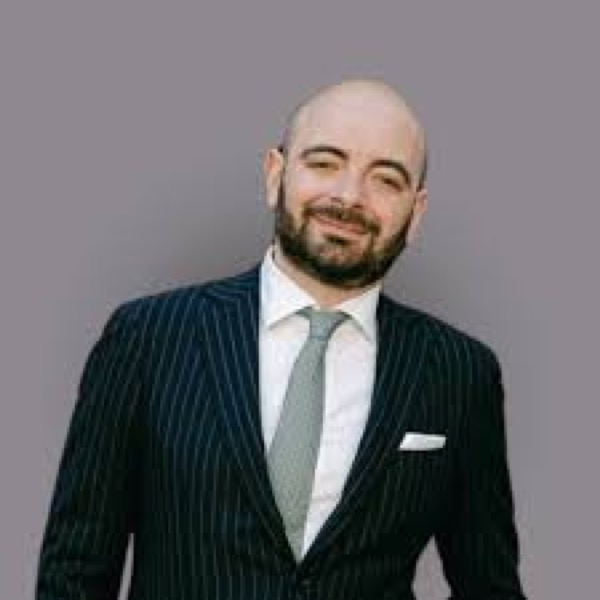
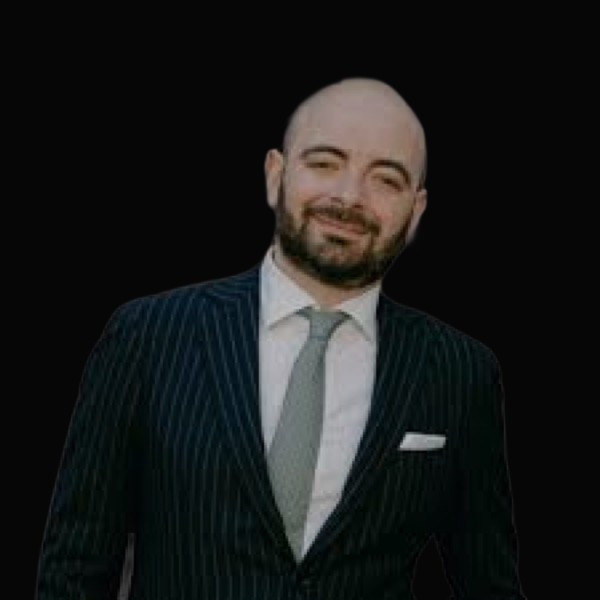
feat: unify all team photos with black background and vignette (matches giordano reference)

diff --git a/index.html b/index.html
@@ -37,13 +37,73 @@
   <header class="hero">
     <div class="hero__bg"></div>
     <canvas id="heroCanvas"></canvas>
-    <div class="hero__content">
-      <p class="hero__eyebrow">Founded 2018 &middot; London &middot; Luxembourg &middot; Milan</p>
-      <h1 class="hero__title">We structure <span class="gold">alternative investments</span><br>for those who build wealth differently.</h1>
-      <p class="hero__sub">Alternative fund structuring, securitization vehicles, and AI-driven wealth management. Regulated. Independent. Luxembourg-domiciled.</p>
-      <div class="hero__actions">
-        <a href="#services" class="btn btn--primary">Our Services</a>
-        <a href="#contact" class="btn btn--outline">Schedule a Call</a>
+    <div class="hero__content hero__content--split">
+      <div class="hero__text">
+        <p class="hero__eyebrow">Founded 2018 &middot; London &middot; Luxembourg &middot; Milan</p>
+        <h1 class="hero__title">Your wealth.<br><span class="gold">Structured</span> for what&rsquo;s next.</h1>
+        <p class="hero__sub">We build and manage alternative investment funds, structured products, and AI-driven portfolios from Luxembourg. Independent. Regulated. Aligned with your interests.</p>
+        <div class="hero__actions">
+          <a href="#services" class="btn btn--primary">Explore Our Services</a>
+          <a href="#contact" class="btn btn--outline">Schedule a Consultation</a>
+        </div>
+      </div>
+      <div class="hero__visual" aria-hidden="true">
+        <svg class="hero__network" viewBox="0 0 400 480" xmlns="http://www.w3.org/2000/svg">
+          <defs>
+            <radialGradient id="nodeGlow" cx="50%" cy="50%" r="50%">
+              <stop offset="0%" stop-color="#e0c874" stop-opacity="1"/>
+              <stop offset="60%" stop-color="#c9a84c" stop-opacity="0.5"/>
+              <stop offset="100%" stop-color="#c9a84c" stop-opacity="0"/>
+            </radialGradient>
+            <linearGradient id="lineGradient" x1="0%" y1="0%" x2="100%" y2="0%">
+              <stop offset="0%" stop-color="#c9a84c" stop-opacity="0.1"/>
+              <stop offset="50%" stop-color="#c9a84c" stop-opacity="0.6"/>
+              <stop offset="100%" stop-color="#c9a84c" stop-opacity="0.1"/>
+            </linearGradient>
+          </defs>
+          <!-- Connection lines -->
+          <g class="hero__network-lines" stroke="url(#lineGradient)" stroke-width="1" fill="none">
+            <line x1="200" y1="60" x2="80" y2="180"/>
+            <line x1="200" y1="60" x2="320" y2="180"/>
+            <line x1="200" y1="60" x2="200" y2="240"/>
+            <line x1="80" y1="180" x2="200" y2="240"/>
+            <line x1="320" y1="180" x2="200" y2="240"/>
+            <line x1="80" y1="180" x2="60" y2="360"/>
+            <line x1="320" y1="180" x2="340" y2="360"/>
+            <line x1="200" y1="240" x2="60" y2="360"/>
+            <line x1="200" y1="240" x2="340" y2="360"/>
+            <line x1="200" y1="240" x2="200" y2="420"/>
+            <line x1="60" y1="360" x2="200" y2="420"/>
+            <line x1="340" y1="360" x2="200" y2="420"/>
+          </g>
+          <!-- Nodes (glow + ring) -->
+          <g class="hero__network-nodes">
+            <!-- top hub -->
+            <circle cx="200" cy="60" r="28" fill="url(#nodeGlow)"/>
+            <circle cx="200" cy="60" r="8" fill="#e0c874"/>
+            <circle cx="200" cy="60" r="14" fill="none" stroke="#c9a84c" stroke-width="1" opacity="0.5"/>
+            <!-- mid-left -->
+            <circle cx="80" cy="180" r="20" fill="url(#nodeGlow)"/>
+            <circle cx="80" cy="180" r="5" fill="#c9a84c"/>
+            <!-- mid-right -->
+            <circle cx="320" cy="180" r="20" fill="url(#nodeGlow)"/>
+            <circle cx="320" cy="180" r="5" fill="#c9a84c"/>
+            <!-- center -->
+            <circle cx="200" cy="240" r="32" fill="url(#nodeGlow)"/>
+            <circle cx="200" cy="240" r="10" fill="#e0c874"/>
+            <circle cx="200" cy="240" r="18" fill="none" stroke="#c9a84c" stroke-width="1" opacity="0.6"/>
+            <!-- bottom-left -->
+            <circle cx="60" cy="360" r="18" fill="url(#nodeGlow)"/>
+            <circle cx="60" cy="360" r="4" fill="#c9a84c"/>
+            <!-- bottom-right -->
+            <circle cx="340" cy="360" r="18" fill="url(#nodeGlow)"/>
+            <circle cx="340" cy="360" r="4" fill="#c9a84c"/>
+            <!-- bottom hub -->
+            <circle cx="200" cy="420" r="24" fill="url(#nodeGlow)"/>
+            <circle cx="200" cy="420" r="7" fill="#e0c874"/>
+            <circle cx="200" cy="420" r="13" fill="none" stroke="#c9a84c" stroke-width="1" opacity="0.4"/>
+          </g>
+        </svg>
       </div>
       <div class="hero__stats">
         <div class="hero__stat">

diff --git a/style.css b/style.css
@@ -281,6 +281,70 @@ body {
   padding: 140px 24px 80px;
 }
 
+.hero__content--split {
+  display: grid;
+  grid-template-columns: minmax(0, 1.2fr) minmax(0, 1fr);
+  gap: 64px;
+  align-items: center;
+}
+
+.hero__text {
+  min-width: 0;
+}
+
+.hero__content--split .hero__stats {
+  grid-column: 1 / -1;
+  margin-top: 32px;
+}
+
+.hero__visual {
+  display: flex;
+  align-items: center;
+  justify-content: center;
+  position: relative;
+  opacity: 0;
+  animation: heroFadeUp 1.2s var(--ease-out-expo) 0.6s forwards;
+}
+
+.hero__network {
+  width: 100%;
+  max-width: 440px;
+  height: auto;
+  filter: drop-shadow(0 0 40px rgba(201, 168, 76, 0.15));
+}
+
+.hero__network-lines line {
+  stroke-dasharray: 4 6;
+  animation: networkPulse 6s linear infinite;
+}
+
+.hero__network-nodes circle {
+  transform-origin: center;
+  transform-box: fill-box;
+}
+
+.hero__network-nodes > circle:nth-child(3n+1) {
+  animation: nodeBreath 4s ease-in-out infinite;
+}
+
+.hero__network-nodes > circle:nth-child(3n+2) {
+  animation: nodeBreath 5s ease-in-out infinite 0.8s;
+}
+
+.hero__network-nodes > circle:nth-child(3n) {
+  animation: nodeBreath 4.5s ease-in-out infinite 1.6s;
+}
+
+@keyframes networkPulse {
+  from { stroke-dashoffset: 0; }
+  to { stroke-dashoffset: -100; }
+}
+
+@keyframes nodeBreath {
+  0%, 100% { opacity: 0.85; transform: scale(1); }
+  50% { opacity: 1; transform: scale(1.08); }
+}
+
 .hero__eyebrow {
   color: var(--gold);
   font-size: 13px;
@@ -1384,6 +1448,22 @@ body {
   /* Hero mobile */
   .hero__content {
     padding: 100px 20px 60px;
+  }
+
+  .hero__content--split {
+    grid-template-columns: 1fr;
+    gap: 32px;
+  }
+
+  .hero__visual {
+    order: -1;
+    max-width: 280px;
+    margin: 0 auto;
+  }
+
+  .hero__network {
+    max-width: 280px;
+    opacity: 0.8;
   }
 
   .hero__title {
